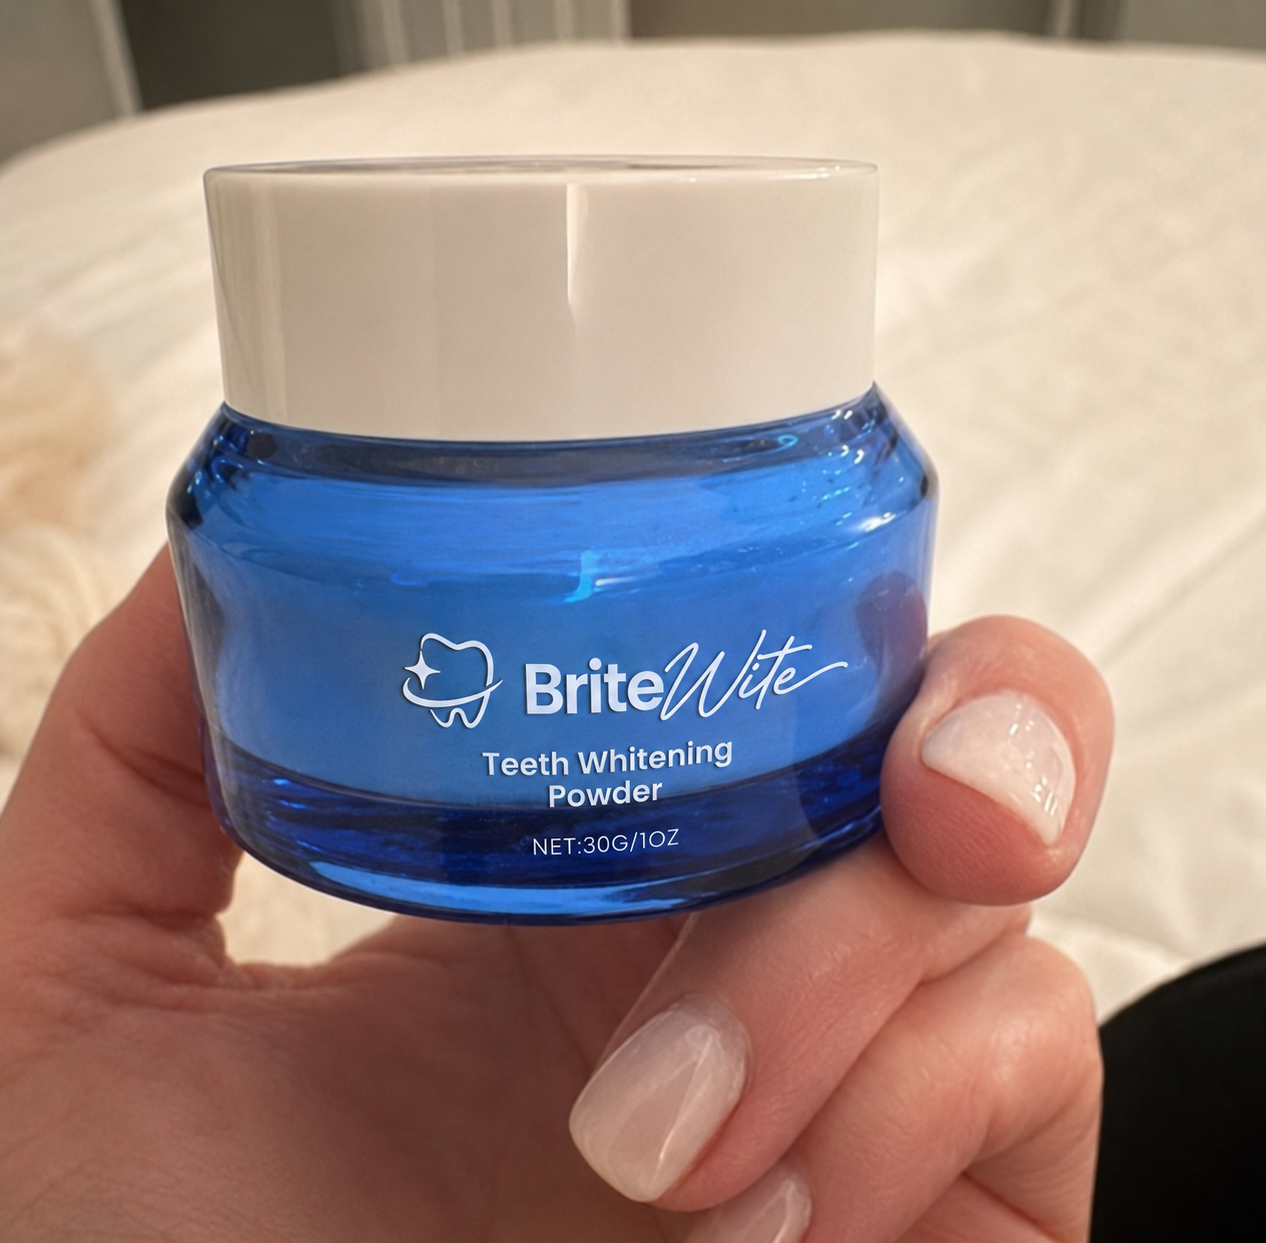
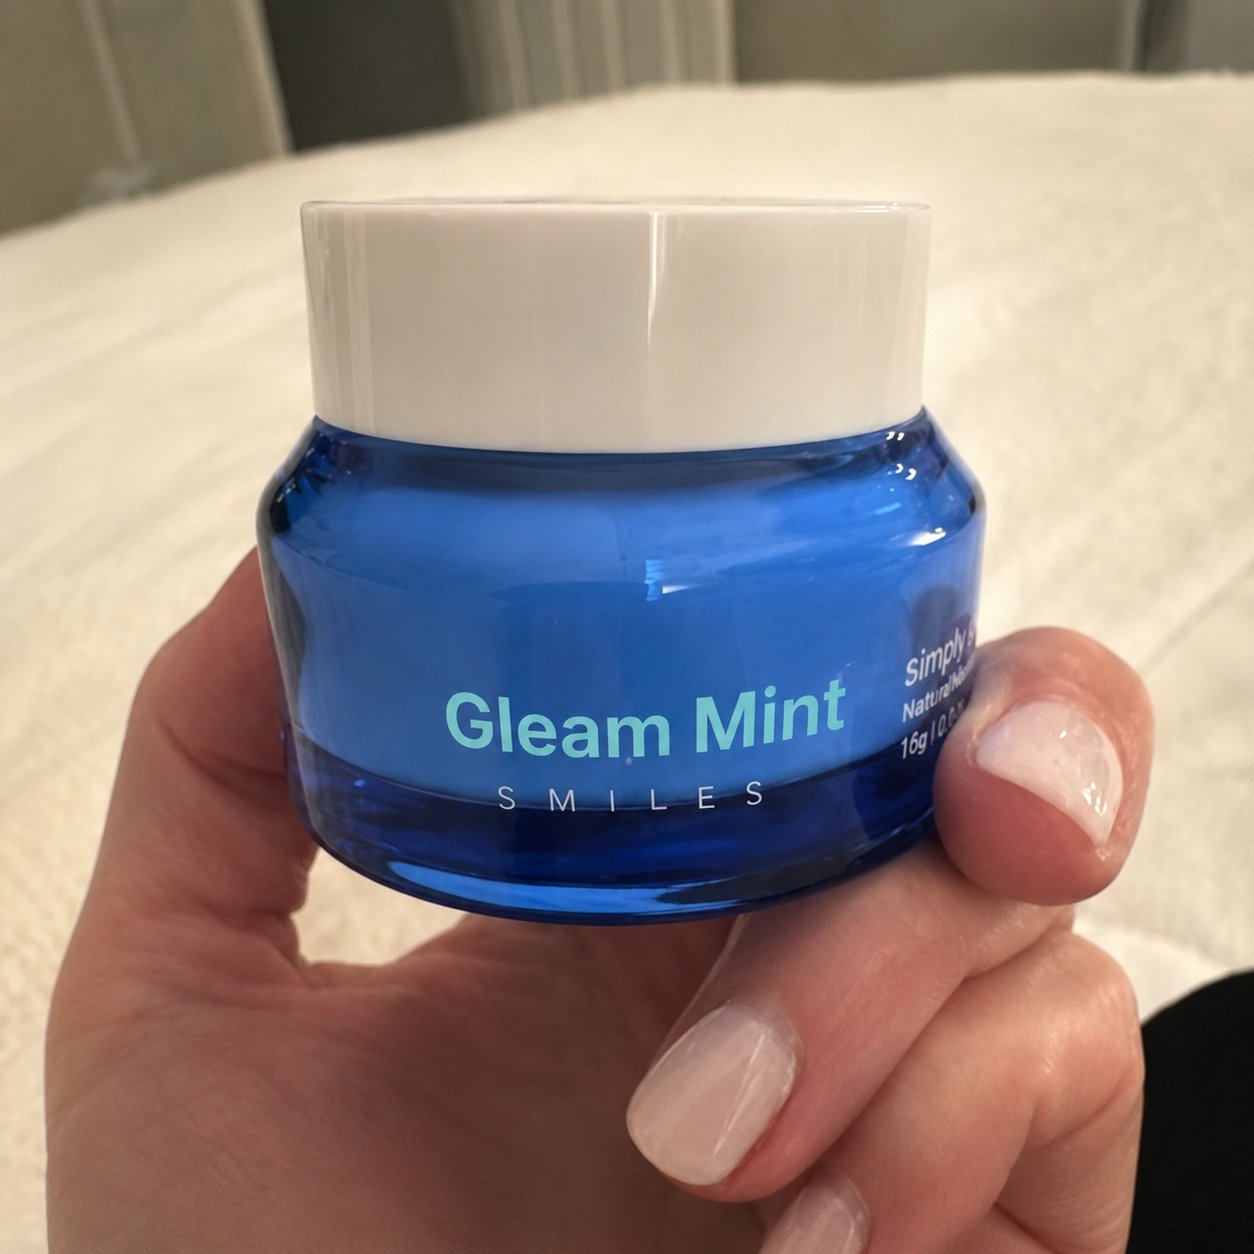
Add files via upload

diff --git a/src/App.tsx b/src/App.tsx
@@ -157,7 +157,7 @@ export default function App() {
               </p>
 
               <p>
-                She told me the name. BriteWite.
+                She told me the name. Gleam Mint.
               </p>
 
               <p>
@@ -215,7 +215,7 @@ export default function App() {
                   href="https://go.consumerskills.org/click" 
                   className="block bg-[#cc0103] text-white px-8 py-5 rounded-xl font-black hover:bg-[#b00103] transition shadow-xl shadow-red-900/20 hover:shadow-2xl hover:-translate-y-1 transform duration-200 w-full text-xl border-b-4 border-[#8f0102] active:border-b-0 active:translate-y-1"
                 >
-                  Check If BriteWite is Still In Stock →
+                  Check If Gleam Mint is Still In Stock →
                 </a>
               </div>
 
@@ -250,7 +250,7 @@ export default function App() {
               </p>
 
               <div className="my-10 text-center flex justify-center">
-                <video src="/images/shade-video.mp4" controls autoPlay loop muted playsInline className="max-w-full rounded-xl shadow-md mx-auto" />
+                <img src="/images/gleam-mint-1.png" controls autoPlay loop muted playsInline className="max-w-full rounded-xl shadow-md mx-auto" />
               </div>
 
               <h2 className="text-3xl lg:text-4xl font-black text-gray-900 mt-16 mb-8 tracking-tight font-serif">Six months later.</h2>
@@ -306,11 +306,11 @@ export default function App() {
               </p>
 
               <p>
-                <a href="https://go.consumerskills.org/click" className="font-bold text-green-700 hover:text-green-800 underline decoration-[3px] underline-offset-4 decoration-green-200 hover:decoration-green-500 transition-colors">BriteWite</a> is $29.99. I order from their website.
+                <a href="https://go.consumerskills.org/click" className="font-bold text-green-700 hover:text-green-800 underline decoration-[3px] underline-offset-4 decoration-green-200 hover:decoration-green-500 transition-colors">Gleam Mint</a> is $29.99. I order from their website.
               </p>
 
               <div className="my-10 flex justify-center text-center">
-                <img src="/images/offer_bx_btl.jpg" alt="BriteWite product" className="mx-auto max-w-full" />
+                <img src="/images/offer_bx_btl.jpg" alt="Gleam Mint product" className="mx-auto max-w-full" />
               </div>
 
               <p>

diff --git a/src/components/Footer.tsx b/src/components/Footer.tsx
@@ -20,7 +20,7 @@ export default function Footer() {
           <p>This is an advertisement and not an actual news article, blog, or consumer protection update.</p>
           <p>Affiliate Disclosure: This website contains affiliate links. If you click on these links and make a purchase, we may receive a commission at no additional cost to you. We only recommend products or services that we believe will add value to our readers.</p>
           <p>Results Disclaimer: This article reflects the personal experience and opinions of the author. The results described, including personal experiences and user reviews, represent individual outcomes and are not typical. Your results may vary. Individual results will depend on many factors including the severity of staining, existing enamel condition, consistency of use, dietary habits, and other variables outside our control.</p>
-          <p>Health Disclaimer: The statements made on this page have not been evaluated by the Food and Drug Administration. BriteWite is not intended to diagnose, treat, cure, or prevent any disease. This product is a cosmetic teeth whitening powder and is not a substitute for professional dental care. Consult your dentist before making changes to your oral care routine, especially if you have existing dental conditions.</p>
+          <p>Health Disclaimer: The statements made on this page have not been evaluated by the Food and Drug Administration. Gleam Mint is not intended to diagnose, treat, cure, or prevent any disease. This product is a cosmetic teeth whitening powder and is not a substitute for professional dental care. Consult your dentist before making changes to your oral care routine, especially if you have existing dental conditions.</p>
           <p>Testimonial Disclaimer: User reviews and testimonials featured on this site reflect individual experiences and have not been independently verified. They may not reflect typical user experiences and should not be considered as guarantees of similar results.</p>
           <p>Third-Party Disclaimer: When you click links on this site, you may be directed to third-party merchant websites. We are not responsible for the content, products, services, or practices of these third-party sites. Please review their terms and policies before making any purchase.</p>
         </div>

diff --git a/src/components/ReviewCards.tsx b/src/components/ReviewCards.tsx
@@ -24,9 +24,9 @@ export default function ReviewCards() {
       initial: 'PM',
       name: 'Presley McKnight',
       verified: true,
-      title: 'Brite Wite is SUPERIOR',
+      title: 'Gleam Mint is SUPERIOR',
       content: [
-        "No sensitivity, and instant white results! I love love Brite Wite whitening!!!!!"
+        "No sensitivity, and instant white results! I love love GleamMint whitening!!!!!"
       ]
     },
     {
